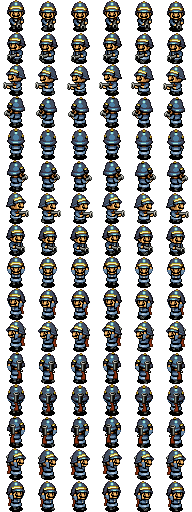
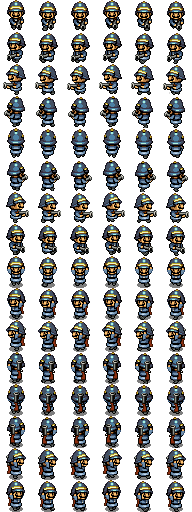
Added shadows to mobs.

diff --git a/Herr-Speck/src/com/tomatrocho/game/HerrSpeck.java b/Herr-Speck/src/com/tomatrocho/game/HerrSpeck.java
@@ -333,13 +333,13 @@ public class HerrSpeck extends Canvas implements Runnable, MouseListener, MouseM
     }
 
     /**
-     * Renders all the graphics on the {@link Screen}.
+     * Render all the graphics using the given {@link Graphics} object.
      */
     private synchronized void render(Graphics g) {
     	// world
-        renderWorld();
+        renderWorld(screen);
         // gui
-        renderGui();
+        renderGui(screen);
         // rendering
         g.fillRect(0, 0, getWidth(), getHeight());
         g.translate((getWidth() - W * SCALE) / 2, (getHeight() - H * SCALE) / 2);
@@ -350,9 +350,9 @@ public class HerrSpeck extends Canvas implements Runnable, MouseListener, MouseM
     }
     
     /**
-     * 
+     * Render the world on the {@link Screen}.
      */
-    private synchronized void renderWorld() {
+    private synchronized void renderWorld(IAbstractScreen screen) {
     	if (world != null) {
             int xScroll = (int) (player.getX() - screen.getW() / 2);
             int yScroll = (int) (player.getY() - screen.getH() / 2);
@@ -361,9 +361,9 @@ public class HerrSpeck extends Canvas implements Runnable, MouseListener, MouseM
     }
     
     /**
-     * 
+     * Render the GUI elements on the {@link Screen}.
      */
-    private synchronized void renderGui() {
+    private synchronized void renderGui(IAbstractScreen screen) {
     	// fonts
     	if (debug) {    		
     		final Font font = Font.getDefaultFont();

diff --git a/Herr-Speck/src/com/tomatrocho/game/entity/Mob.java b/Herr-Speck/src/com/tomatrocho/game/entity/Mob.java
@@ -3,6 +3,7 @@ package com.tomatrocho.game.entity;
 import com.tomatrocho.game.entity.mob.Player;
 import com.tomatrocho.game.entity.mob.Team;
 import com.tomatrocho.game.entity.weapon.Weapon;
+import com.tomatrocho.game.gfx.Art;
 import com.tomatrocho.game.gfx.IAbstractBitmap;
 import com.tomatrocho.game.gfx.IAbstractScreen;
 import com.tomatrocho.game.math.Vec2;
@@ -22,14 +23,24 @@ public abstract class Mob extends Entity {
 	public static final int W = 32;
 	
 	/**
-	 * 
+	 * Max amount of health a {@link Mob} can have.
 	 */
 	protected static final float MAX_HEALTH = 100;
 	
 	/**
-	 * 
+	 * Amount of health the {@link Mob} currently has.
 	 */
 	protected float health = MAX_HEALTH;
+	
+	/**
+	 * 
+	 */
+	protected int yShadowOffset = 13;
+	
+	/**
+	 * 
+	 */
+	protected int alphaShadow = 128;
 	
 	/**
 	 * 
@@ -132,6 +143,7 @@ public abstract class Mob extends Entity {
 
 	@Override
 	public void render(IAbstractScreen screen) {
+		screen.alphaBlit(Art.bigShadow, (int) (x - Art.bigShadow.getW() / 2), (int) (y - Art.bigShadow.getH() / 2 + yShadowOffset), alphaShadow);
 		final IAbstractBitmap sprite = getSprite();
 		if (hurtTime > 0) {
 			int col = (int) (180 - health * 180 / MAX_HEALTH);

diff --git a/Herr-Speck/src/com/tomatrocho/game/gfx/Art.java b/Herr-Speck/src/com/tomatrocho/game/gfx/Art.java
@@ -31,6 +31,8 @@ public class Art {
 	public static IAbstractBitmap[][] darkness;
 	public static IAbstractBitmap[][] muzzle;
 	
+	// shadows
+	public static IAbstractBitmap bigShadow;
 	
 	/**
 	*
@@ -51,5 +53,6 @@ public class Art {
 	    bullets = screen.cut("/art/projectiles/bullet.png", 16, 16);
 	    darkness = screen.cut("/art/effects/darkness.png", 16, 16);
 	    muzzle = screen.cut("/art/effects/muzzle.png", 16, 16);
+	    bigShadow = screen.load("/art/shadows/big_shadow.png");
 	}
 }

diff --git a/Herr-Speck/src/com/tomatrocho/game/entity/mob/Bat.java b/Herr-Speck/src/com/tomatrocho/game/entity/mob/Bat.java
@@ -18,6 +18,8 @@ public class Bat extends Mob {
 	 */
 	public Bat(World level, int x, int y) {
 		super(level, x, y, Team.TEAM_2);
+		yShadowOffset = 28;
+		alphaShadow = 60;
 		health = 50f;
 		speed = 1.5;
 	}
@@ -32,6 +34,7 @@ public class Bat extends Mob {
 
 	@Override
 	public void render(IAbstractScreen screen) {
+		super.render(screen);
 		final IAbstractBitmap sprite = getSprite();
 		screen.blit(sprite, x - sprite.getW() / 2, y - sprite.getH() / 2);
 	}
